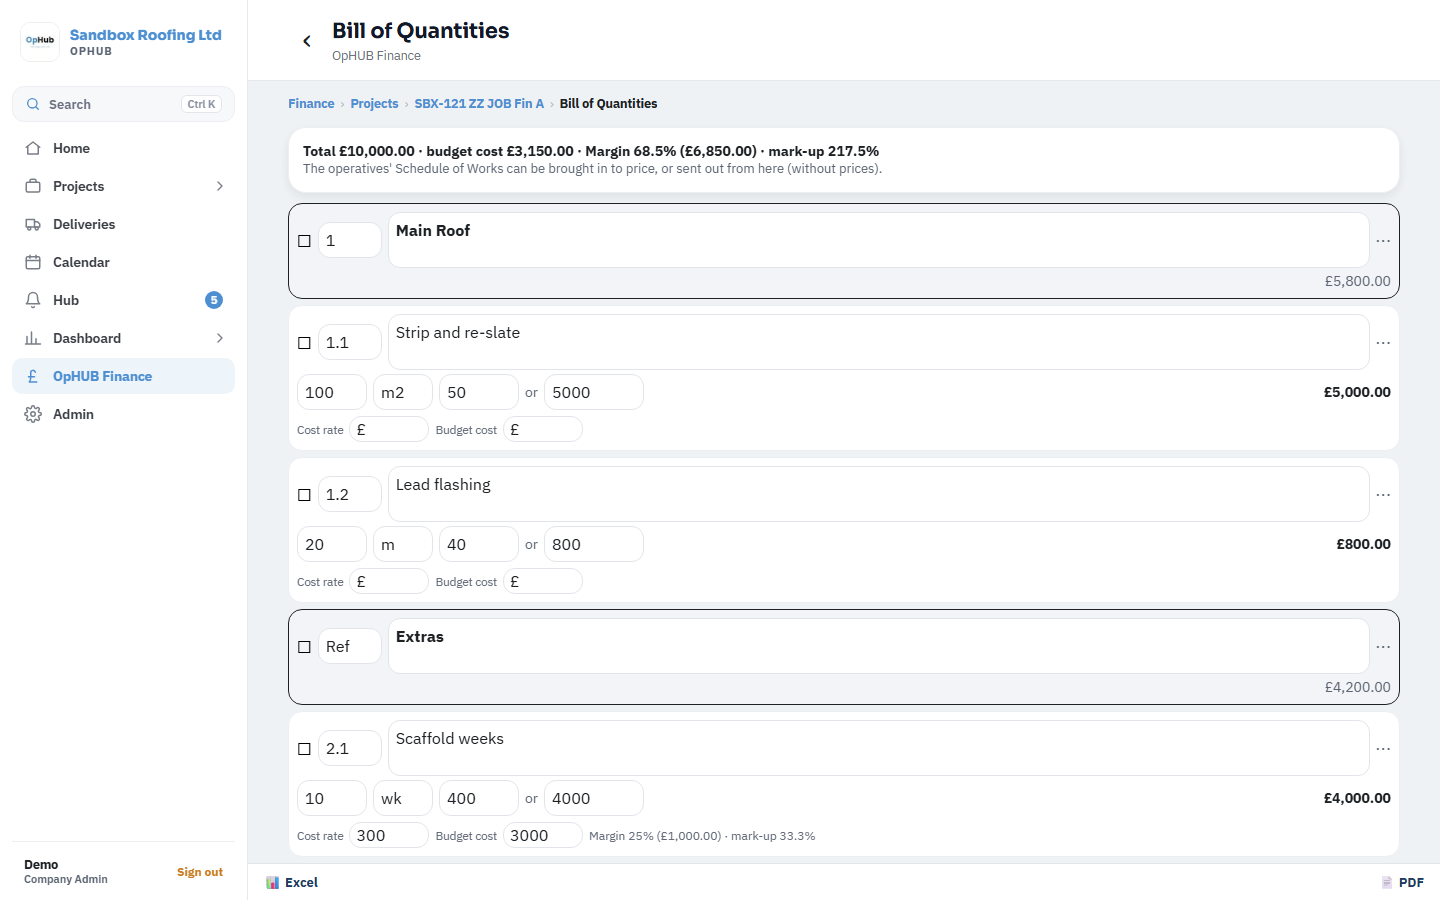
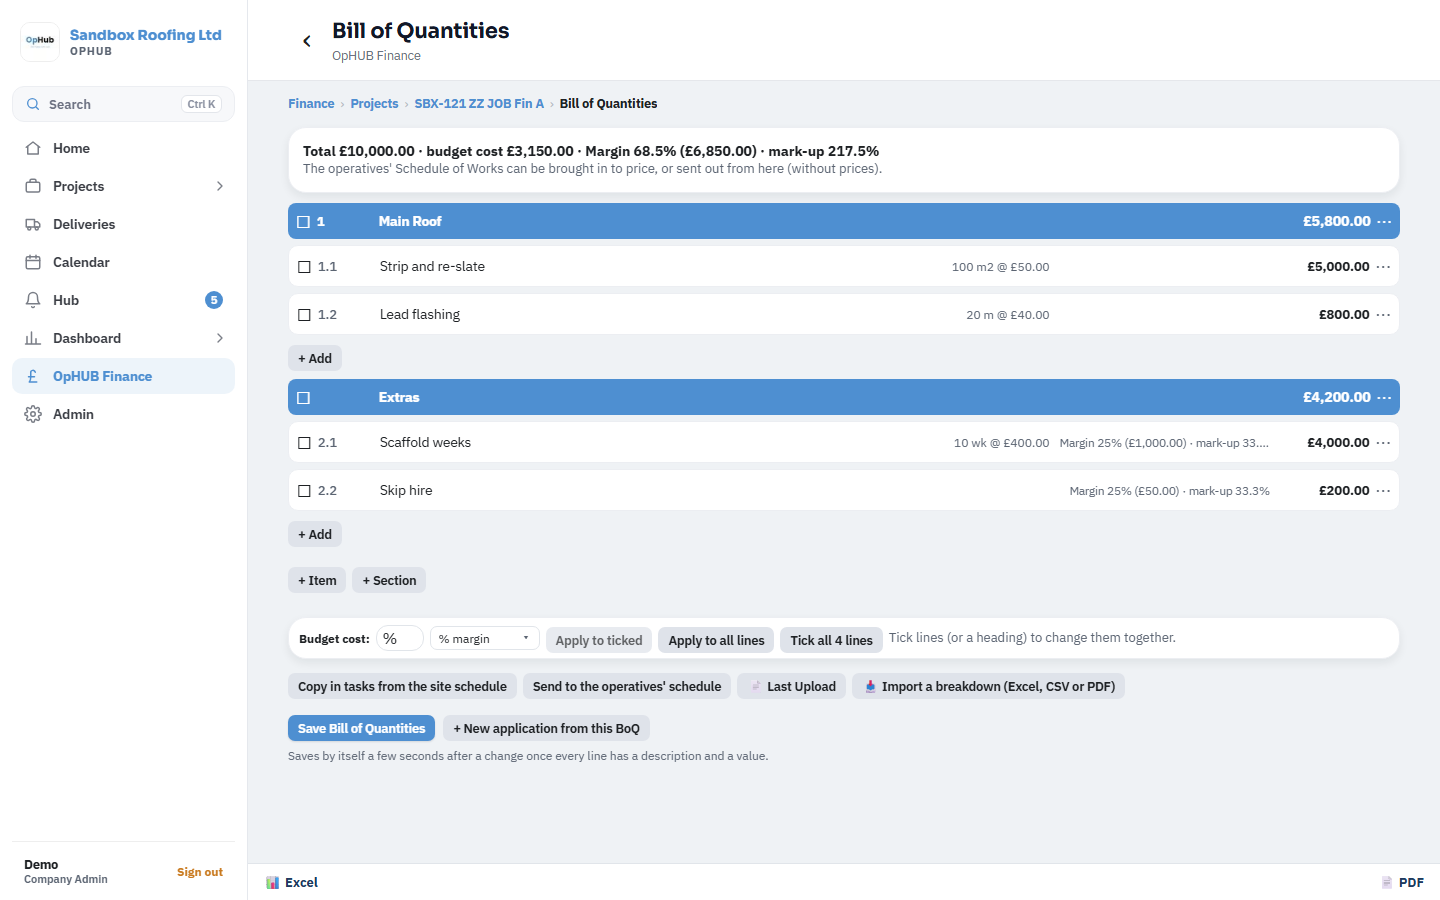
Bill of Quantities: lines sit closed, click to open, tab out to close. Headings are one aligned line in a deeper colour with + Add at the end of each section; no main + Sub-section.
Claude-Session: https://claude.ai/code/session_012KhfNvBEbifMJmPdX7yZfp

diff --git a/app-native/src/app/(app)/fin/job/[id]/boq.tsx b/app-native/src/app/(app)/fin/job/[id]/boq.tsx
@@ -11,7 +11,7 @@
 import { useQuery, useQueryClient } from '@tanstack/react-query';
 import * as DocumentPicker from 'expo-document-picker';
 import { router, Stack, useLocalSearchParams } from 'expo-router';
-import { useEffect, useRef, useState } from 'react';
+import { Fragment, useEffect, useRef, useState } from 'react';
 
 import { viewDoc } from '@/components/DocViewer';
 import { openDocLink } from '@/data/hs';
@@ -35,7 +35,7 @@ import { csvRows, readXlsx, type Cell } from '@/lib/rules/xlsxRead';
 import { groupTotals, isItem, itemValue } from '@/lib/rules/finApp';
 import { money, num, round2 } from '@/lib/rules/finance';
 import { exportTableExcel, exportTablePdf, type Table } from '@/lib/tableExport';
-import { base, page, radius, space } from '@/theme/theme';
+import { base, page, radius, space, useTheme } from '@/theme/theme';
 
 type Row = Record<string, any>;
 const box = { borderWidth: 1, borderColor: base.line, borderRadius: radius.input, padding: 7, color: base.ink, backgroundColor: base.card };
@@ -50,6 +50,10 @@ export default function FinBoq() {
 
 function Editor({ id, initial, me }: { id: string; initial: Row[]; me: Profile }) {
   const { org } = useAuth();
+  const t = useTheme();
+  // One line open at a time (Andy, 1 Nov 2026): click to open, tab out or click away to close.
+  const [openK, setOpenK] = useState<string | null>(null);
+  const closing = useRef<ReturnType<typeof setTimeout> | null>(null);
   const toast = useToast();
   const qc = useQueryClient();
   const { data: site } = useSite(id);
@@ -70,8 +74,8 @@ function Editor({ id, initial, me }: { id: string; initial: Row[]; me: Profile }
   const set = (i: number, k: string, v: unknown) => setRows((rs) => rs.map((r, j) => (j === i ? { ...r, [k]: v } : r)));
   const move = (i: number, d: number) => { const j = i + d; if (j < 0 || j >= rows.length) return; const x = rows.slice(); [x[i], x[j]] = [x[j], x[i]]; setRows(x); };
   const blank = (kind: string): Row => ({ _k: key(), kind, ref: '', description: '', qty: '', unit: '', rate: '', value: '', cost: '', sub: '' });
-  const add = (kind: string) => setRows([...rows, blank(kind)]);
-  const addAt = (i: number, kind: string) => { const at = insertAt(rows, i, kind); const x = rows.slice(); x.splice(at, 0, blank(kind)); setRows(x); };
+  const add = (kind: string) => { const n = blank(kind); setRows([...rows, n]); setOpenK(n._k); };
+  const addAt = (i: number, kind: string) => { const at = insertAt(rows, i, kind); const n = blank(kind), x = rows.slice(); x.splice(at, 0, n); setRows(x); setOpenK(n._k); };
   const vals = rows.map((r) => (isItem(r) ? itemValue(r) || 0 : 0));
   const tots = groupTotals(rows.map((r, i) => ({ ...r, v: vals[i] })), (r) => r.v, () => 0);
   const total = round2(vals.reduce((t, v) => t + v, 0));
@@ -173,44 +177,72 @@ function Editor({ id, initial, me }: { id: string; initial: Row[]; me: Profile }
         const head = r.kind === 'section' || r.kind === 'subsection';
         const grp = head ? groupRange(rows, i) : [];
         const on = head ? grp.length > 0 && grp.every((j) => rows[j]._sel) : !!r._sel;
+        // Headings are one aligned line in a deeper colour: a section in the company colour, a sub-section in grey (Andy, 1 Nov 2026).
+        const isOpen = openK === r._k;
+        const leave = { onFocus: () => { if (closing.current) clearTimeout(closing.current); }, onBlur: () => { closing.current = setTimeout(() => setOpenK((k) => (k === r._k ? null : k)), 150); } } as { onFocus: () => void; onBlur: () => void };
+        const sec = r.kind === 'section', ink = sec ? t.brand1Text : base.ink;
+        const headBox = { flex: 0, height: 30, paddingVertical: 0, paddingHorizontal: 6, borderWidth: 0, backgroundColor: 'transparent', color: ink, fontWeight: '800' as const };
+        // The Add button sits at the end of each section or sub-section: an item, or a sub-section (only ever inside a section).
+        let h = i; while (h >= 0 && rows[h].kind !== 'section' && rows[h].kind !== 'subsection') h--;
+        const next = rows[i + 1]?.kind, nextHead = next === 'section' || next === 'subsection' || i === rows.length - 1;
+        const addHere = async () => {
+          const canSub = next !== 'subsection' && rows.slice(0, i + 1).some((x) => x.kind === 'section');
+          const k = canSub ? await chooseAction('Add', [{ key: 'item', label: 'Item' }, { key: 'subsection', label: 'Sub-section' }]) : 'item';
+          if (!k) return;
+          const n = blank(k), x = rows.slice(); x.splice(i + 1, 0, n); setRows(x); setOpenK(n._k);
+        };
         return (
-          <View key={r._k} style={{ borderWidth: 1, borderColor: head ? base.ink : base.cardLine, borderRadius: radius.row, padding: 8, marginBottom: 6, backgroundColor: head ? '#F2F4F7' : base.card, marginLeft: r.kind === 'subsection' ? 10 : 0 }}>
+          <Fragment key={r._k}>
+          <View style={{ borderWidth: head ? 0 : 1, borderColor: isOpen && !head ? t.brand1 : base.cardLine, borderRadius: head ? 8 : 10, paddingVertical: head ? 3 : isOpen ? 8 : 5, paddingHorizontal: 8, marginBottom: 6, backgroundColor: sec ? t.brand1 : r.kind === 'subsection' ? '#DFE3EA' : base.card, marginLeft: r.kind === 'subsection' ? 10 : 0 }}>
             <View style={{ flexDirection: 'row', gap: 6, alignItems: 'center' }}>
-              <Pressable hitSlop={6} accessibilityLabel="Tick" onPress={() => (head ? tick(grp, !on) : set(i, '_sel', !on))}><Text style={{ fontSize: 17 }}>{on ? '☑' : '☐'}</Text></Pressable>
-              <TextInput value={r.ref || ''} onChangeText={(v) => set(i, 'ref', v)} placeholder="Ref" style={[box, { width: 64 }]} />
-              <TextInput value={r.description || ''} onChangeText={(v) => set(i, 'description', v)} placeholder={head ? (r.kind === 'section' ? 'Section heading' : 'Sub-section heading') : 'Description'} multiline style={[box, { flex: 1, fontWeight: head ? '800' : '400' }]} />
-              <Pressable hitSlop={6} onPress={async () => {
+              <Pressable hitSlop={6} focusable={!isOpen} accessibilityLabel="Tick" onPress={() => (head ? tick(grp, !on) : set(i, '_sel', !on))}><Text style={{ fontSize: 17, color: head ? ink : base.ink }}>{on ? '☑' : '☐'}</Text></Pressable>
+              {isOpen ? <>
+              <TextInput {...leave} value={r.ref || ''} onChangeText={(v) => set(i, 'ref', v)} placeholder="Ref" placeholderTextColor={head ? ink : undefined} style={[box, { width: 64 }, head && headBox]} />
+              <TextInput {...leave} value={r.description || ''} onChangeText={(v) => set(i, 'description', v)} placeholder={head ? (r.kind === 'section' ? 'Section heading' : 'Sub-section heading') : 'Description'} placeholderTextColor={head ? ink : undefined} autoFocus multiline={!head} style={[box, { flex: 1 }, head && { ...headBox, flex: 1 }]} />
+              </> : (
+                <Pressable accessibilityRole="button" accessibilityLabel={`Open ${r.description || 'line'}`} onPress={() => setOpenK(r._k)} style={{ flex: 1, flexDirection: 'row', alignItems: 'center', gap: 10, minHeight: 30 }}>
+                  <Text numberOfLines={1} style={{ width: 52, fontSize: 13, fontWeight: head ? '800' : '500', color: head ? ink : base.slate }}>{r.ref || ''}</Text>
+                  <Text numberOfLines={1} style={{ flex: 1, fontSize: 13.5, fontWeight: head ? '800' : '400', color: head ? ink : r.description ? base.ink : base.slateLight }}>{r.description || (head ? 'Heading' : 'Description')}</Text>
+                  {!head && <Text numberOfLines={1} style={{ width: 150, fontSize: 12, color: base.slate, textAlign: 'right' }}>{num(r.qty) !== null ? `${r.qty} ${r.unit || ''} @ ${money(Number(num(r.rate)) || 0)}` : ''}</Text>}
+                  {!head && <Text numberOfLines={1} style={{ width: 210, fontSize: 11.5, color: num(r.cost) !== null && vals[i] && (num(r.cost) as number) > vals[i] ? base.red : base.slate, textAlign: 'right' }}>{num(r.cost) !== null ? marginText(vals[i], num(r.cost)) : ''}</Text>}
+                  {!head && <Text style={{ width: 90, fontWeight: '800', fontSize: 13, color: base.ink, textAlign: 'right' }}>{money(vals[i])}</Text>}
+                </Pressable>
+              )}
+              {head && <Text style={{ fontWeight: '800', color: ink, minWidth: 90, textAlign: 'right' }}>{money(tots[i]?.value || 0)}</Text>}
+              <Pressable hitSlop={6} focusable={!isOpen} onPress={async () => {
                 const k = await chooseAction('Line', [{ key: 'ai', label: head ? '+ Item under this heading' : '+ Item below' }, ...(r.kind === 'section' ? [{ key: 'as', label: '+ Sub-section in this section' }] : []), { key: 'asec', label: '+ Section after this' }, { key: 'up', label: '↑ Move up' }, { key: 'down', label: '↓ Move down' }, { key: 'kind', label: 'Change type' }, { key: 'del', label: '🗑 Remove', danger: true }]);
-                if (k === 'ai') addAt(i, 'item'); else if (k === 'as') addAt(i, 'subsection'); else if (k === 'asec') { const x = rows.slice(); let at = i + 1; while (at < x.length && x[at].kind !== 'section') at++; x.splice(at, 0, blank('section')); setRows(x); }
+                if (k === 'ai') addAt(i, 'item'); else if (k === 'as') addAt(i, 'subsection'); else if (k === 'asec') { const x = rows.slice(); let at = i + 1; while (at < x.length && x[at].kind !== 'section') at++; const n = blank('section'); x.splice(at, 0, n); setRows(x); setOpenK(n._k); }
                 else if (k === 'up') move(i, -1); else if (k === 'down') move(i, 1); else if (k === 'del') setRows(rows.filter((_, j) => j !== i));
                 else if (k === 'kind') { const t = await chooseAction('Type', [{ key: 'item', label: 'Item' }, { key: 'section', label: 'Section heading' }, { key: 'subsection', label: 'Sub-section heading' }]); if (t) set(i, 'kind', t); }
-              }}><Text style={{ fontSize: 18, color: base.slate }}>⋯</Text></Pressable>
+              }}><Text style={{ fontSize: 18, color: head ? ink : base.slate }}>⋯</Text></Pressable>
             </View>
-            {head ? <Text style={{ textAlign: 'right', color: base.slate, marginTop: 4 }}>{money(tots[i]?.value || 0)}</Text> : (
+            {head || !isOpen ? null : (
               <>
                 <View style={{ flexDirection: 'row', gap: 6, marginTop: 4, flexWrap: 'wrap', alignItems: 'center' }}>
-                  <TextInput value={String(r.qty ?? '')} onChangeText={(v) => set(i, 'qty', v)} placeholder="Qty" keyboardType="decimal-pad" style={[box, { width: 70 }]} />
-                  <TextInput value={r.unit || ''} onChangeText={(v) => set(i, 'unit', v)} placeholder="Unit" style={[box, { width: 60 }]} />
-                  <TextInput value={String(r.rate ?? '')} onChangeText={(v) => set(i, 'rate', v)} placeholder="Rate £" keyboardType="decimal-pad" style={[box, { width: 80 }]} />
+                  <TextInput {...leave} value={String(r.qty ?? '')} onChangeText={(v) => set(i, 'qty', v)} placeholder="Qty" keyboardType="decimal-pad" style={[box, { width: 70 }]} />
+                  <TextInput {...leave} value={r.unit || ''} onChangeText={(v) => set(i, 'unit', v)} placeholder="Unit" style={[box, { width: 60 }]} />
+                  <TextInput {...leave} value={String(r.rate ?? '')} onChangeText={(v) => set(i, 'rate', v)} placeholder="Rate £" keyboardType="decimal-pad" style={[box, { width: 80 }]} />
                   <Text style={{ color: base.slate }}>or</Text>
-                  <TextInput value={String(r.value ?? '')} onChangeText={(v) => set(i, 'value', v)} placeholder="Lump sum £" keyboardType="decimal-pad" style={[box, { width: 100 }]} editable={!(num(r.qty) !== null && num(r.rate) !== null)} />
+                  <TextInput {...leave} value={String(r.value ?? '')} onChangeText={(v) => set(i, 'value', v)} placeholder="Lump sum £" keyboardType="decimal-pad" style={[box, { width: 100 }]} editable={!(num(r.qty) !== null && num(r.rate) !== null)} />
                   <Text style={{ marginLeft: 'auto', fontWeight: '800', color: base.ink }}>{money(vals[i])}</Text>
                 </View>
                 <View style={{ flexDirection: 'row', gap: 6, marginTop: 6, flexWrap: 'wrap', alignItems: 'center' }}>
                   <Text style={{ fontSize: 11.5, color: base.slate }}>{num(r.qty) ? 'Cost rate' : 'Cost'}</Text>
-                  <TextInput value={costRate(r)} onChangeText={(v) => { const n = num(v), q = num(r.qty); setRows((rs) => rs.map((x, j) => (j === i ? { ...x, cost: n === null || isNaN(n) ? '' : q ? round2(n * q) : n, cost_basis: null, cost_pct: null } : x))); }} placeholder="£" keyboardType="decimal-pad" style={[box, { width: 80, height: 26, paddingVertical: 2, paddingHorizontal: 6, fontSize: 12 }]} />
+                  <TextInput {...leave} value={costRate(r)} onChangeText={(v) => { const n = num(v), q = num(r.qty); setRows((rs) => rs.map((x, j) => (j === i ? { ...x, cost: n === null || isNaN(n) ? '' : q ? round2(n * q) : n, cost_basis: null, cost_pct: null } : x))); }} placeholder="£" keyboardType="decimal-pad" style={[box, { width: 80, height: 26, paddingVertical: 2, paddingHorizontal: 6, fontSize: 12 }]} />
                   <Text style={{ fontSize: 11.5, color: base.slate }}>Budget cost</Text>
-                  <TextInput value={String(r.cost ?? '')} onChangeText={(v) => setRows((rs) => rs.map((x, j) => (j === i ? { ...x, cost: v, cost_basis: null, cost_pct: null } : x)))} placeholder="£" keyboardType="decimal-pad" style={[box, { width: 80, height: 26, paddingVertical: 2, paddingHorizontal: 6, fontSize: 12 }]} />
+                  <TextInput {...leave} value={String(r.cost ?? '')} onChangeText={(v) => setRows((rs) => rs.map((x, j) => (j === i ? { ...x, cost: v, cost_basis: null, cost_pct: null } : x)))} placeholder="£" keyboardType="decimal-pad" style={[box, { width: 80, height: 26, paddingVertical: 2, paddingHorizontal: 6, fontSize: 12 }]} />
                   {subs.length > 0 && <SelectBox value={r.sub || '-'} options={[['-', 'No plot'], ...subs.map((s) => [s.id, s.short] as [string, string])]} onChange={(k) => set(i, 'sub', k === '-' ? '' : k)} title="Plot" style={{ marginBottom: 0, width: 150 }} />}
                   <Text style={{ fontSize: 12, color: num(r.cost) !== null && vals[i] && (num(r.cost) as number) > vals[i] ? base.red : base.slate }}>{marginText(vals[i], num(r.cost))}{r.cost_basis && r.cost_pct != null ? ` (set at ${r.cost_pct}% ${r.cost_basis === 'markup' ? 'mark-up' : 'margin'})` : ''}</Text>
                 </View>
               </>
             )}
           </View>
+          {h >= 0 && nextHead && <View style={{ marginBottom: 8, marginLeft: rows[h].kind === 'subsection' ? 10 : 0 }}><Button small kind="ghost" title="+ Add" onPress={() => void addHere()} /></View>}
+          </Fragment>
         );
       })}
       <View style={{ flexDirection: 'row', gap: 6, flexWrap: 'wrap', marginTop: 8, marginBottom: 24 }}>
-        <Button small kind="ghost" title="+ Item" onPress={() => add('item')} /><Button small kind="ghost" title="+ Section" onPress={() => add('section')} /><Button small kind="ghost" title="+ Sub-section" onPress={() => add('subsection')} />
+        <Button small kind="ghost" title="+ Item" onPress={() => add('item')} /><Button small kind="ghost" title="+ Section" onPress={() => add('section')} />
       </View>
       {/* Budget cost: margin / mark-up for all or the ticked lines, and changes to the ticked lines together (902). */}
       <Card style={{ paddingVertical: 5, paddingHorizontal: 10 }}>

diff --git a/tools/test-harness/jobtest-parts/bq1.js b/tools/test-harness/jobtest-parts/bq1.js
@@ -1,11 +1,28 @@
-// Bill of Quantities layout screenshots. Read only.
+// Bill of Quantities on Sandbox: closed lines, click to open, Tab out to close, Add button. Nothing saved on purpose beyond what's open.
 module.exports = async ({as, step}) => {
   const a = await as('admin');
   const [J] = await a.get('sites?select=id&name=like.ZZ%20JOB%20Fin*&limit=1');
+  const inputs = () => a.page.locator('input,textarea').locator('visible=true').count();
   await a.page.setViewportSize({width: 1440, height: 900});
-  await step('Top and bottom', async () => {
+  await step('Lines start closed, one click opens one', async () => {
     await a.go(`/fin/job/${J.id}/boq`, 7000); await a.page.getByText(/^not now$/i).first().click({timeout: 800}).catch(() => {}); await a.page.waitForTimeout(1500); await a.shot('top');
-    await a.page.mouse.move(800, 500); await a.page.mouse.wheel(0, 5000); await a.page.waitForTimeout(700); await a.shot('bottom');
-    return {ok: true, note: 'shot'};
+    const n0 = await inputs();
+    await a.page.getByText('Strip and re-slate').first().click({timeout: 6000}); await a.page.waitForTimeout(600); await a.shot('open');
+    const n1 = await inputs();
+    return {ok: n1 > n0 + 3, note: `boxes ${n0} then ${n1}`};
+  });
+  await step('Tab through the line closes it', async () => {
+    const before = await inputs();
+    for (let i = 0; i < 12 && await inputs() >= before; i++) { await a.page.keyboard.press('Tab'); await a.page.waitForTimeout(220); }
+    const after = await inputs();
+    return {ok: after < before, note: `boxes ${before} then ${after}`};
+  });
+  await step('+ Add under a section offers Item and Sub-section; no main + Sub-section', async () => {
+    await a.page.mouse.move(800, 500); await a.page.mouse.wheel(0, 5000); await a.page.waitForTimeout(600); await a.shot('bottom');
+    const main = await a.page.getByText(/^\+ Sub-section$/).locator('visible=true').count();
+    await a.page.getByText(/^\+ Add$/).locator('visible=true').last().click({timeout: 6000}); await a.page.waitForTimeout(500); await a.shot('add');
+    const ok = await a.page.getByText(/^Sub-section$/).locator('visible=true').count();
+    await a.page.locator('[aria-label="Close"]').locator('visible=true').last().click({timeout: 3000}).catch(() => {});
+    return {ok: main === 0 && ok > 0, note: `main ${main}, offered ${ok}`};
   });
 };
